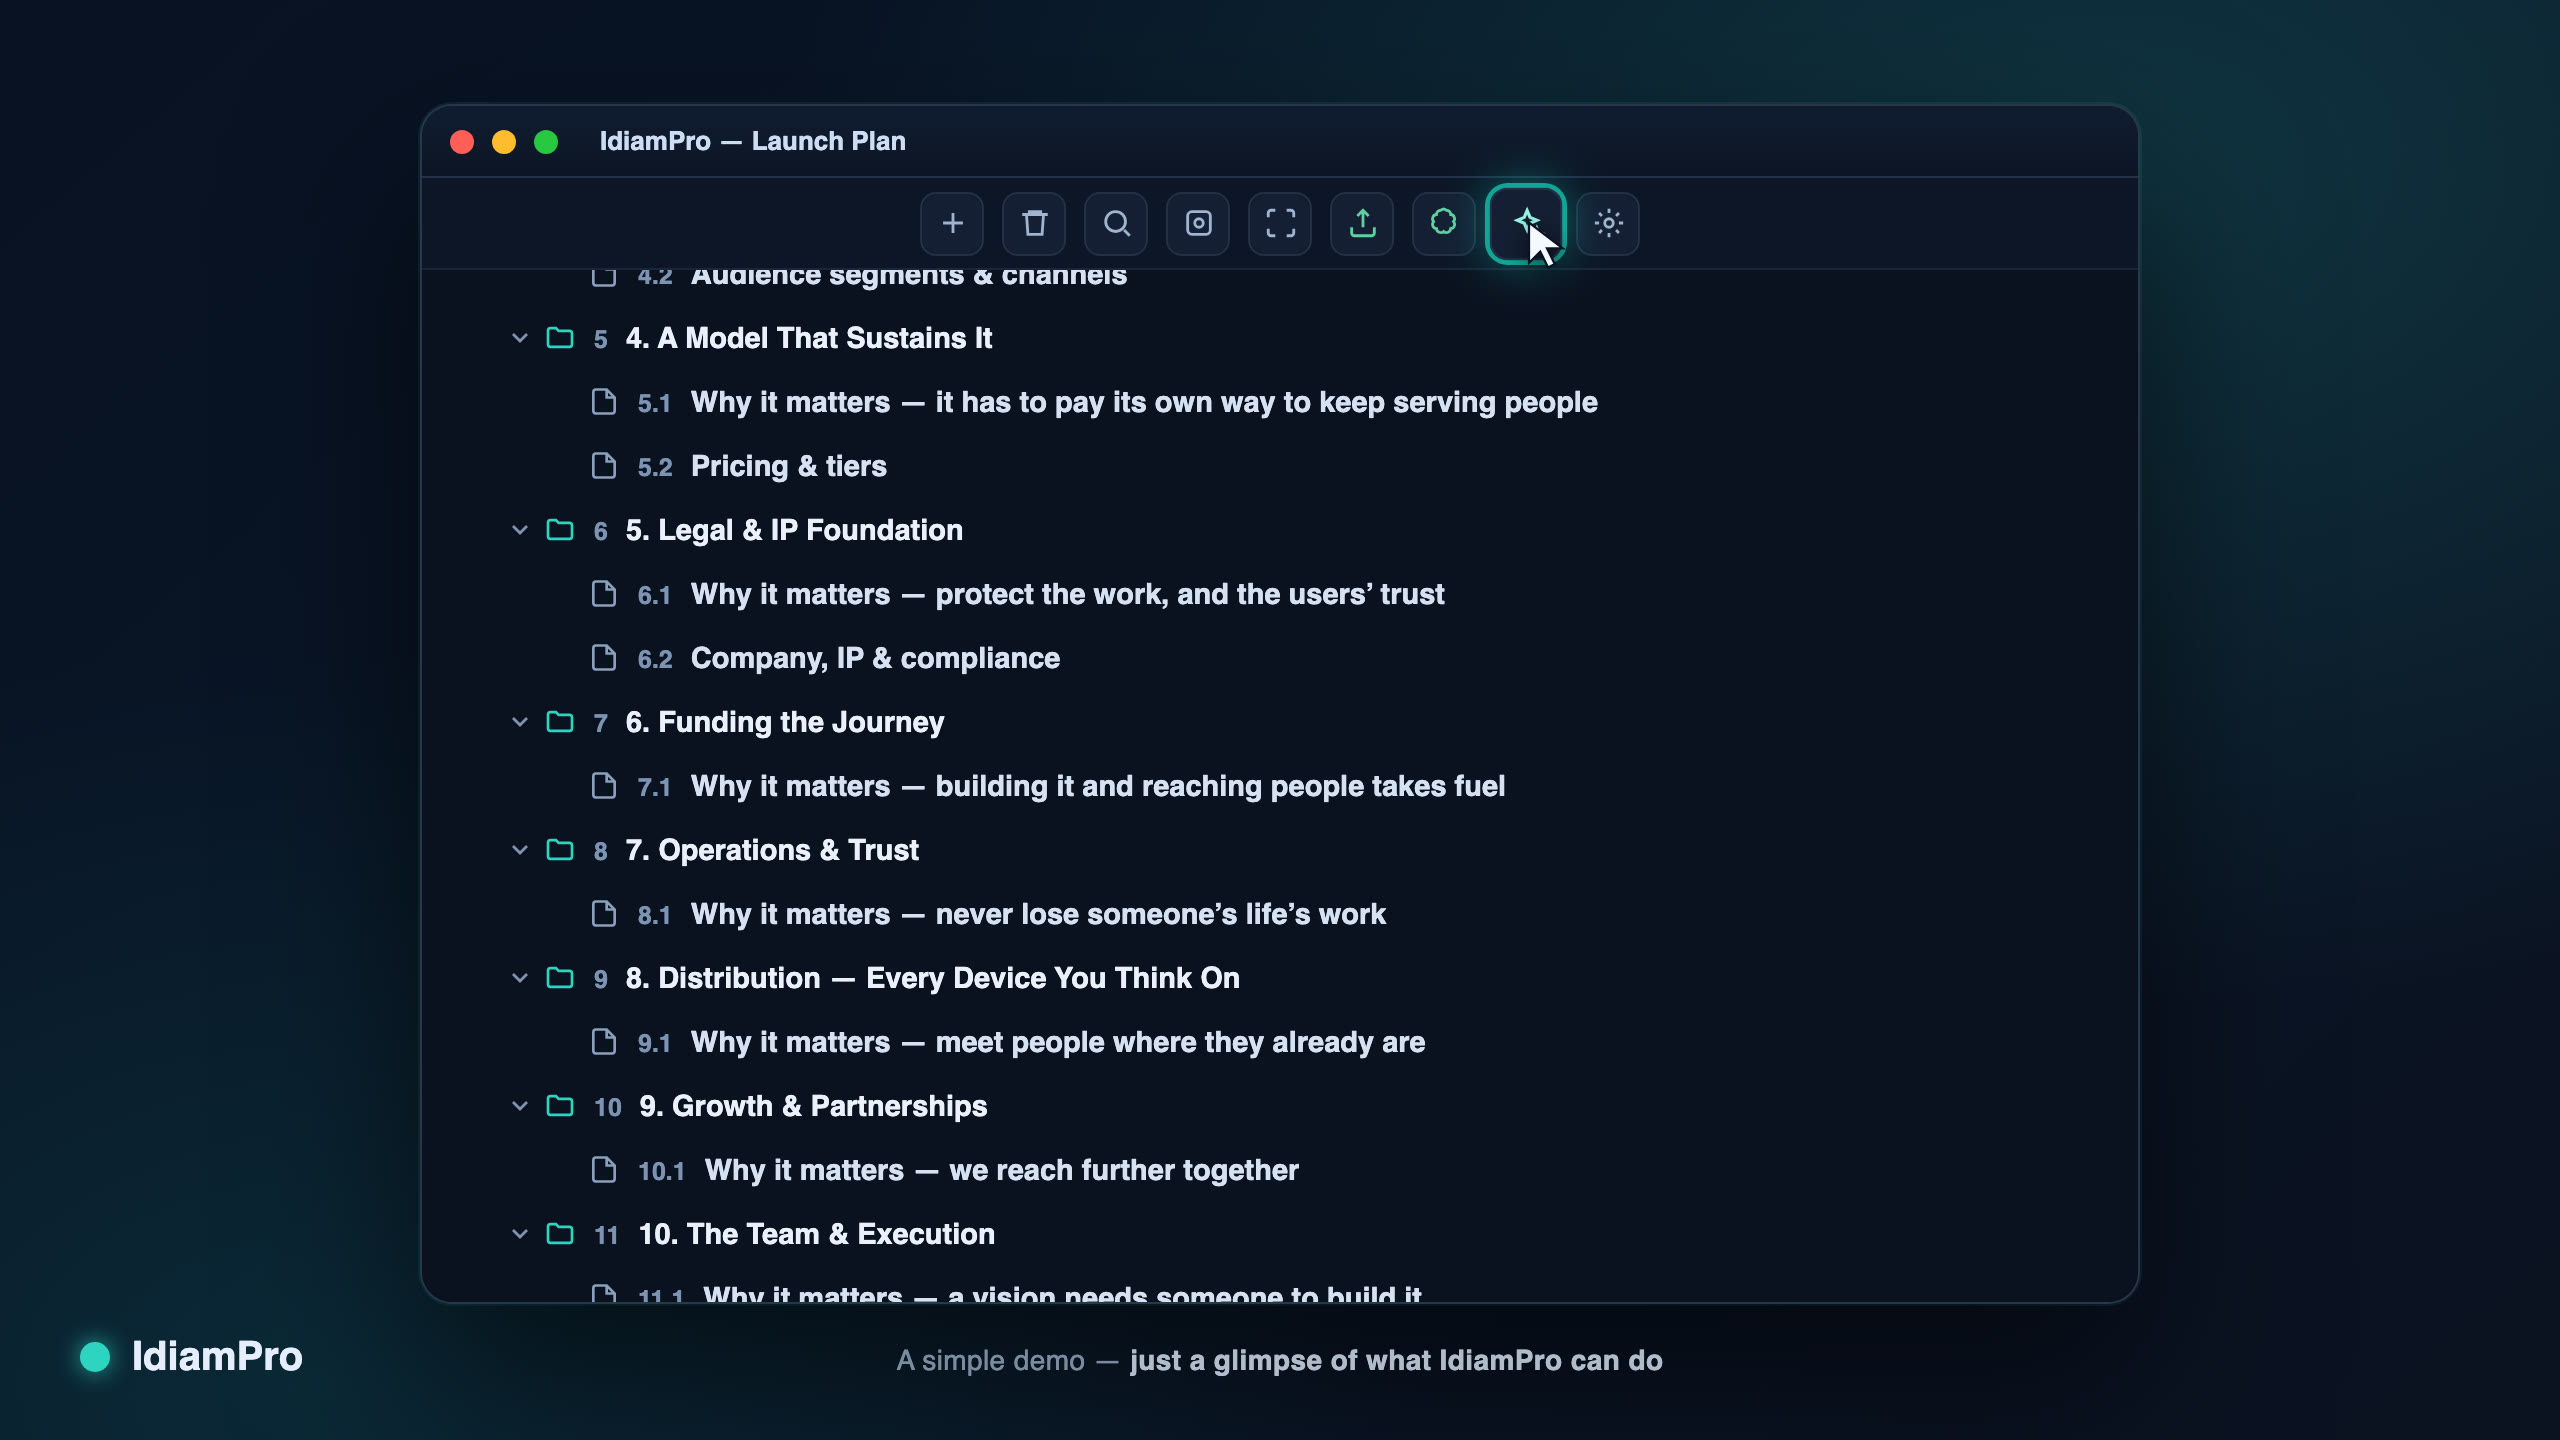
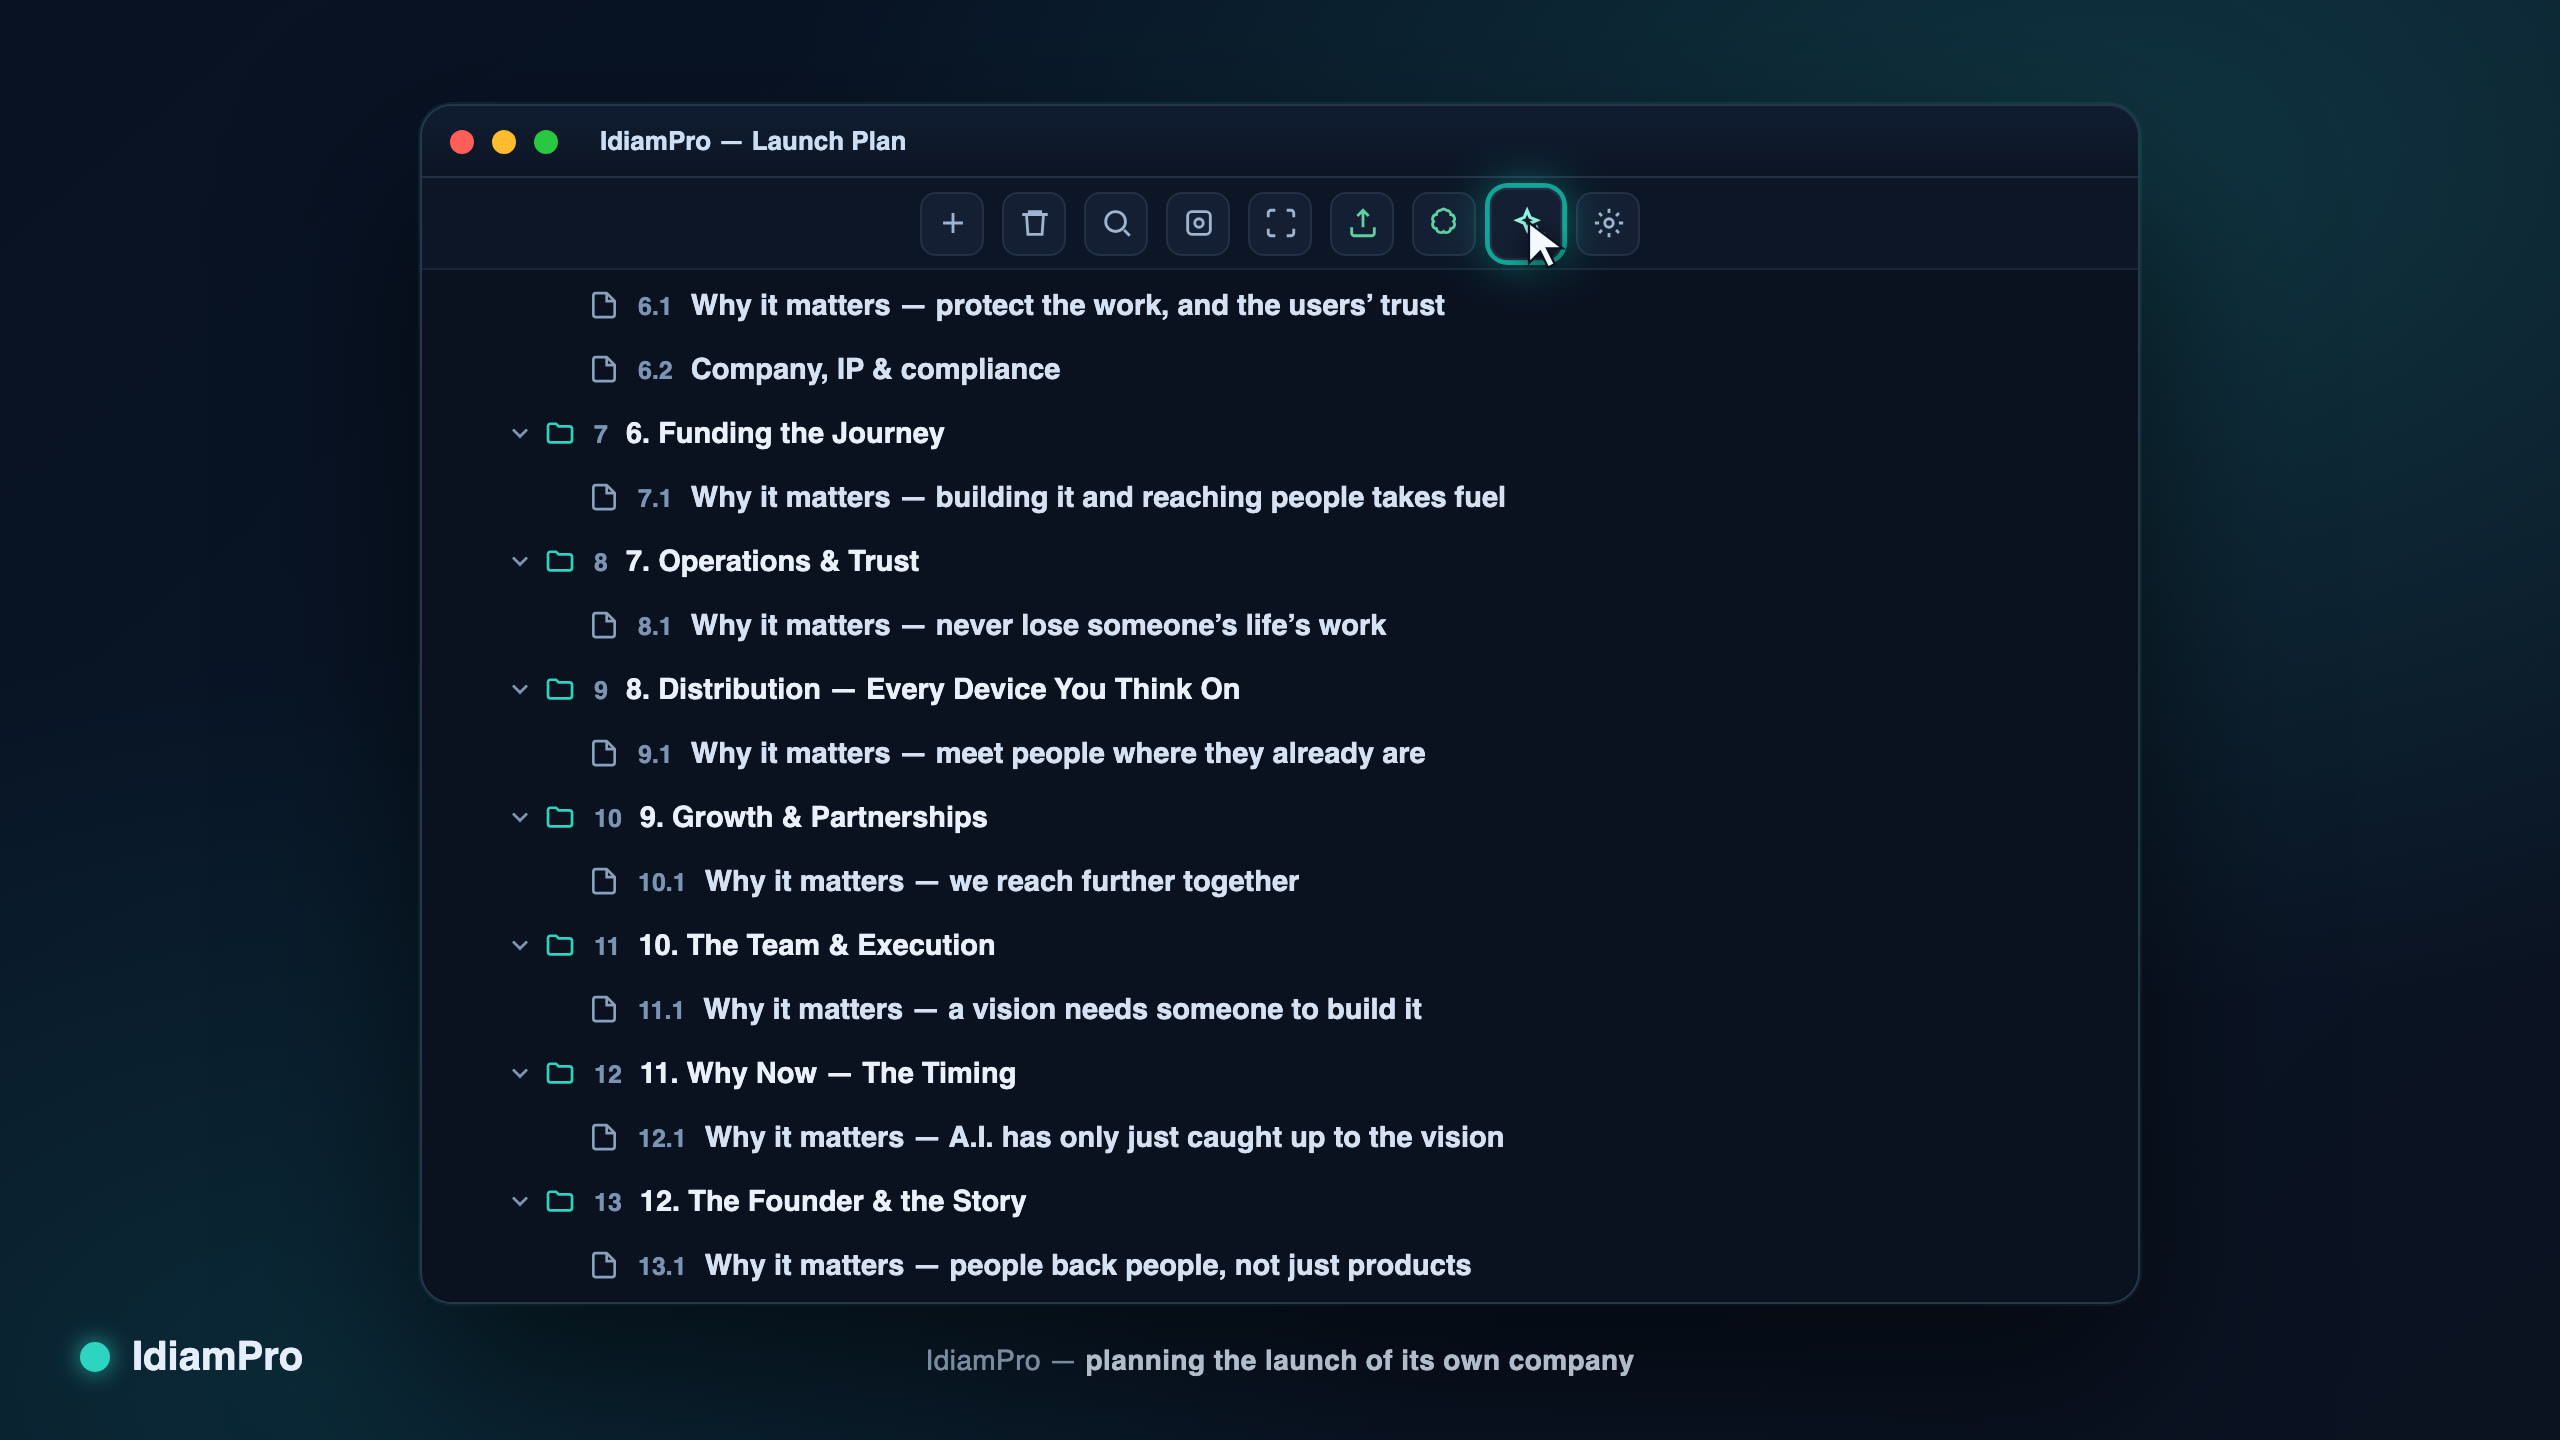
Founder film: final 10-beat true-story render (onyx) + cache-bust
Replaces the founder-story film with the approved distilled 10-beat true story
(overwhelm -> the lifelong question -> Idiam built + lost to obsolescence ->
'the code was never the value, the ideas were' -> AI as liberation for a systems
architect -> built on a shoestring -> the amplify-your-thinking thesis -> the
family of tools to come). Onyx voice, teal Clarity visuals, generic launch-plan
outline (not the real proprietary one). 2:18, faststart-verified. Bump video
cache tag to v=story2 so browsers fetch the new cut immediately.

Changed region(s): [[0.2188, 0.1875, 0.625, 0.9062], [0.3438, 0.9375, 0.6562, 0.9688]]

diff --git a/src/app/page.tsx b/src/app/page.tsx
@@ -378,8 +378,8 @@ export default function MarketingPage() {
             <div className="overflow-hidden -mx-6 sm:mx-0 rounded-none sm:rounded-2xl border-y sm:border border-[#c2dbd9] bg-[#f4faf9] shadow-2xl shadow-teal-600/10 backdrop-blur-sm">
               <video
                 className="block h-auto w-full"
-                src="/idiampro-story.mp4?v=onyx"
-                poster="/idiampro-story-poster.jpg?v=onyx"
+                src="/idiampro-story.mp4?v=story2"
+                poster="/idiampro-story-poster.jpg?v=story2"
                 controls
                 playsInline
                 preload="metadata"